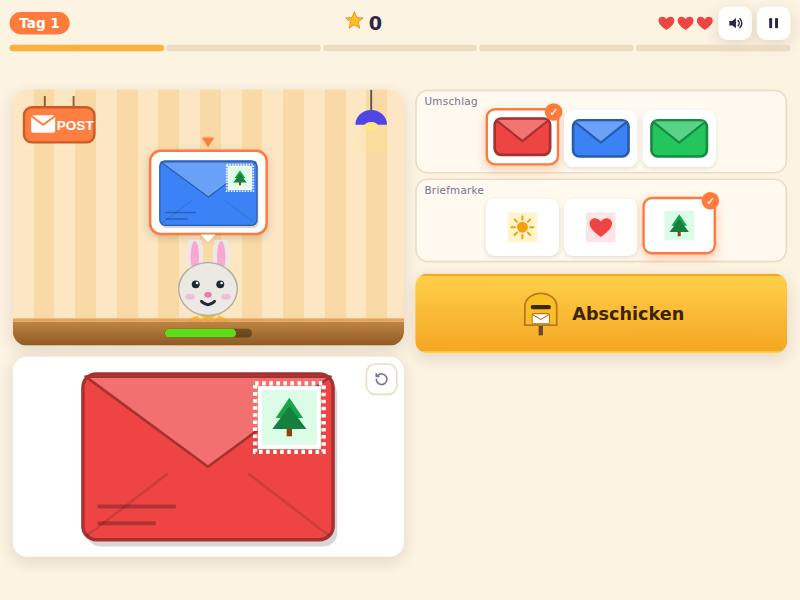
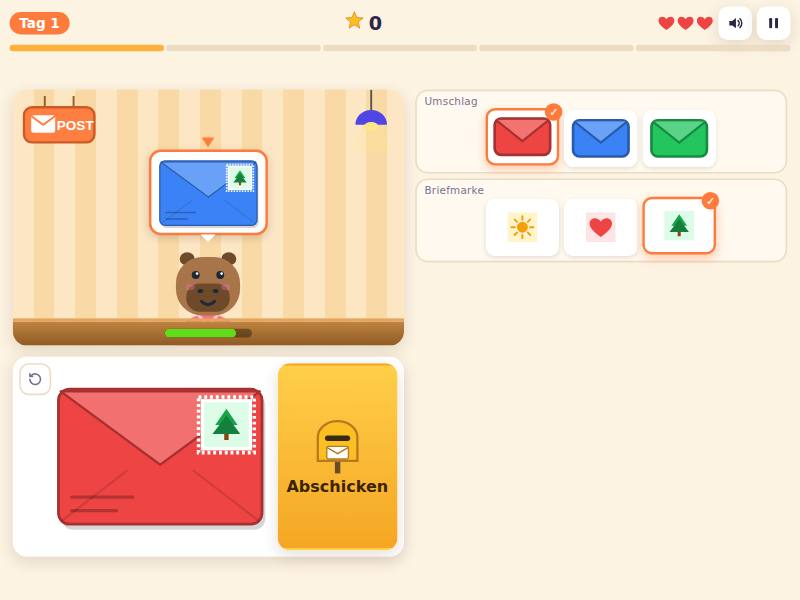
Brief-Puzzle v2: letter and send button in one row, counter fills the screen
The mailbox (or the sorting bins) sits right next to the letter, and the
counter grows into the free space so there is no empty strip at the bottom.
Day 6 with four trays and four bins now fits on a 360x740 phone.

Claude-Session: https://claude.ai/code/session_01M7wP2W5AL2J2jsTdGDXtSF

Changed region(s): [[0.0312, 0.6, 0.5, 0.93], [0.5, 0.45, 1.0, 0.6], [0.2188, 0.39, 0.3125, 0.54]]

diff --git a/postamt_2/index.html b/postamt_2/index.html
@@ -62,14 +62,15 @@
   /* ---------- Spielfläche ---------- */
   #play { flex: 1; min-height: 0; overflow-y: auto; overflow-x: hidden; display: flex; flex-direction: column; gap: 8px; padding: 0 12px 12px; }
   #left, #right { display: flex; flex-direction: column; gap: 8px; min-width: 0; }
+  #left { flex: 1 0 auto; }
 
-  #counter { position: relative; border-radius: 18px; overflow: hidden; min-height: 206px; flex-shrink: 0;
+  #counter { position: relative; border-radius: 18px; overflow: hidden; min-height: 190px; flex: 1 0 auto; display: flex; flex-direction: column;
     background: repeating-linear-gradient(90deg, var(--wall) 0 26px, var(--wall2) 26px 52px); box-shadow: var(--shadow); }
   #counter::after { content: ""; position: absolute; left: 0; right: 0; bottom: 0; height: 34px; z-index: 2;
     background: linear-gradient(var(--wood), var(--wood2)); border-top: 4px solid #e2a45f; }
   #sign { position: absolute; left: 10px; top: 8px; width: 74px; z-index: 0; opacity: .95; }
   #lamp { position: absolute; right: 12px; top: 0; width: 46px; z-index: 0; }
-  #queue { position: relative; display: flex; justify-content: center; align-items: flex-end; gap: 6px; height: 100%; min-height: 206px; padding: 6px 6px 0; }
+  #queue { position: relative; display: flex; justify-content: center; align-items: flex-end; gap: 6px; flex: 1; min-height: 190px; padding: 6px 6px 0; }
   #emptyTip { position: absolute; inset: 0 0 34px; display: grid; place-items: center; z-index: 1; color: var(--muted); font-size: 18px; pointer-events: none; }
   #banner { position: absolute; left: 50%; top: 40%; z-index: 5; transform: translate(-50%, -50%); font-size: 44px; font-weight: 700; color: #fff;
     background: var(--accent); padding: 4px 24px; border-radius: 18px; box-shadow: var(--shadow); pointer-events: none; white-space: nowrap; }
@@ -99,9 +100,10 @@
   .cust.mad .steam { animation: steam 1s ease-out infinite; }
   .cust.mad .steam.s2 { animation-delay: .5s; }
 
-  #bench { position: relative; background: var(--panel); border-radius: 18px; box-shadow: var(--shadow); padding: 6px; display: flex; align-items: center; justify-content: center; gap: 8px; flex-shrink: 0; }
+  #bench { position: relative; background: var(--panel); border-radius: 18px; box-shadow: var(--shadow); padding: 8px; display: flex; align-items: stretch; gap: 8px; flex-shrink: 0; }
+  #letterBox { position: relative; flex: 1 1 auto; min-width: 0; display: flex; align-items: center; justify-content: center; padding: 4px 0 4px 38px; }
   #bench.nope { animation: shake .45s; }
-  #letterWrap { position: relative; width: clamp(150px, calc((100dvh - 600px) * 1.43), 230px); max-width: calc(100% - 96px); aspect-ratio: 200 / 140; }
+  #letterWrap { position: relative; width: 100%; max-width: 230px; aspect-ratio: 200 / 140; }
   #letterWrap > svg { width: 100%; height: 100%; }
   #letterWrap.pop { animation: pop .3s ease; }
   #marks { position: absolute; inset: 0; pointer-events: none; }
@@ -109,7 +111,7 @@
     font-size: 20px; font-weight: 700; border: 3px solid #fff; box-shadow: 0 2px 6px rgba(0,0,0,.3); animation: pop .35s ease; }
   .qmark { background: var(--accent2); color: #3b2300; }
   .postmark { position: absolute; width: 38%; pointer-events: none; animation: stampIn .22s ease-out forwards; }
-  #clearBtn { position: absolute; right: 8px; top: 8px; width: 40px; height: 40px; border-radius: 12px; border: 2px solid var(--line); background: transparent; display: grid; place-items: center; padding: 0; color: var(--muted); }
+  #clearBtn { position: absolute; left: 0; top: 0; width: 40px; height: 40px; border-radius: 12px; border: 2px solid var(--line); background: transparent; display: grid; place-items: center; padding: 0; color: var(--muted); }
   #clearBtn svg { width: 20px; height: 20px; }
 
   #trays { display: flex; flex-direction: column; gap: 6px; }
@@ -128,14 +130,15 @@
   .opt.wrong::after { content: "✗"; background: var(--bad); }
   .opt.hint { animation: hint .8s ease-in-out infinite alternate; border-color: var(--good); }
 
-  #targets { display: flex; gap: 8px; }
-  .target { flex: 1; min-height: 76px; border-radius: 16px; border: 3px solid transparent; box-shadow: var(--shadow); display: flex; align-items: center; justify-content: center; gap: 10px; padding: 6px; position: relative; transition: transform .15s; }
+  #targets { flex: 0 0 104px; display: grid; gap: 6px; }
+  #targets.bins { flex-basis: 132px; grid-template-columns: 1fr 1fr; }
+  .target { min-height: 52px; border-radius: 16px; border: 3px solid transparent; box-shadow: var(--shadow); display: flex; align-items: center; justify-content: center; gap: 10px; padding: 6px; position: relative; transition: transform .15s; }
   .target:active { transform: scale(.96); }
-  .target.mail { background: linear-gradient(#ffcf4a, #f5a623); color: #3b2300; font-size: 22px; font-weight: 700; }
-  .target.mail svg { width: 58px; height: 58px; }
-  .target.bin { flex-direction: column; gap: 2px; color: #2d2446; font-weight: 700; font-size: 20px; border-color: rgba(0,0,0,.08); }
-  .target.bin svg { width: 44px; height: 44px; }
-  .target.bin .num { position: absolute; left: 6px; top: 4px; width: 26px; height: 26px; border-radius: 50%; background: #2d2446; color: #fff; font-size: 16px; display: grid; place-items: center; }
+  .target.mail { flex-direction: column; gap: 2px; background: linear-gradient(#ffcf4a, #f5a623); color: #3b2300; font-size: 17px; font-weight: 700; }
+  .target.mail svg { width: 56px; height: 56px; }
+  .target.bin { flex-direction: column; gap: 0; padding: 4px; color: #2d2446; font-weight: 700; font-size: 20px; border-color: rgba(0,0,0,.08); }
+  .target.bin svg { width: 38px; height: 38px; }
+  .target.bin .num { position: absolute; left: 3px; top: 3px; width: 22px; height: 22px; border-radius: 50%; background: #2d2446; color: #fff; font-size: 14px; display: grid; place-items: center; }
   .target.bad { border-color: var(--bad); animation: shake .45s; }
   .target.hint { border-color: var(--good); animation: hint .8s ease-in-out infinite alternate; }
   .target.gulp { animation: gulp .4s ease; }
@@ -228,14 +231,14 @@
   }
   @media (max-height: 760px) and (max-width: 899px) {
     .tray h3 { display: none; }
-    #counter, #queue { min-height: 172px; }
+    #counter, #queue { min-height: 150px; }
     #counter::after { height: 30px; }
     .cust .animal { width: 70px; }
     .opt { height: 50px; }
     .opt svg { max-height: 40px; }
-    .target { min-height: 62px; }
     .target.mail svg { width: 46px; height: 46px; }
-    .target.bin svg { width: 36px; height: 36px; }
+    .target.bin svg { width: 30px; height: 30px; }
+    #letterWrap { max-width: 190px; }
     #play, #left, #right { gap: 6px; }
   }
   /* Desktop: zwei Spalten */
@@ -247,10 +250,12 @@
     .cust .animal { width: 118px; }
     .cust .dest { width: 40px; height: 40px; } .cust .dest svg { width: 28px; height: 28px; }
     #bench { min-height: 250px; }
-    #letterWrap { width: min(100% - 100px, 340px); max-width: none; }
+    #letterWrap { max-width: 340px; }
+    #targets { flex-basis: 150px; } #targets.bins { flex-basis: 200px; }
+    .target.mail { font-size: 20px; } .target.mail svg { width: 72px; height: 72px; }
+    .target.bin svg { width: 48px; height: 48px; }
     .opt { height: 72px; }
     .opt svg { max-height: 58px; }
-    .target { min-height: 100px; }
     #sign { width: 96px; } #lamp { width: 58px; }
   }
 </style>
@@ -272,13 +277,15 @@
         <div id="banner" class="hidden"></div>
       </section>
       <section id="bench" aria-label="Dein Brief">
-        <div id="letterWrap"><div id="letter"></div><div id="marks"></div></div>
-        <button id="clearBtn" aria-label="Brief leeren"></button>
+        <div id="letterBox">
+          <div id="letterWrap"><div id="letter"></div><div id="marks"></div></div>
+          <button id="clearBtn" aria-label="Brief leeren"></button>
+        </div>
+        <section id="targets" aria-label="Abschicken"></section>
       </section>
     </div>
     <div id="right">
       <section id="trays" aria-label="Teile"></section>
-      <section id="targets" aria-label="Abschicken"></section>
     </div>
   </main>
 </div>
@@ -661,6 +668,7 @@
   }
   function buildTargets() {
     const c = S.cfg;
+    $('targets').classList.toggle('bins', !!c.dests);
     if (!c.dests) $('targets').innerHTML = '<button class="target mail" id="mailbox" aria-label="Abschicken">' + MAILBOX + '<span>Abschicken</span></button>';
     else $('targets').innerHTML = c.dests.map((d, i) =>
       '<button class="target bin" data-v="' + d.v + '" style="background:' + d.bg + '" aria-label="Fach ' + (i + 1) + ' ' + d.n + '" title="' + d.n + '">' +
